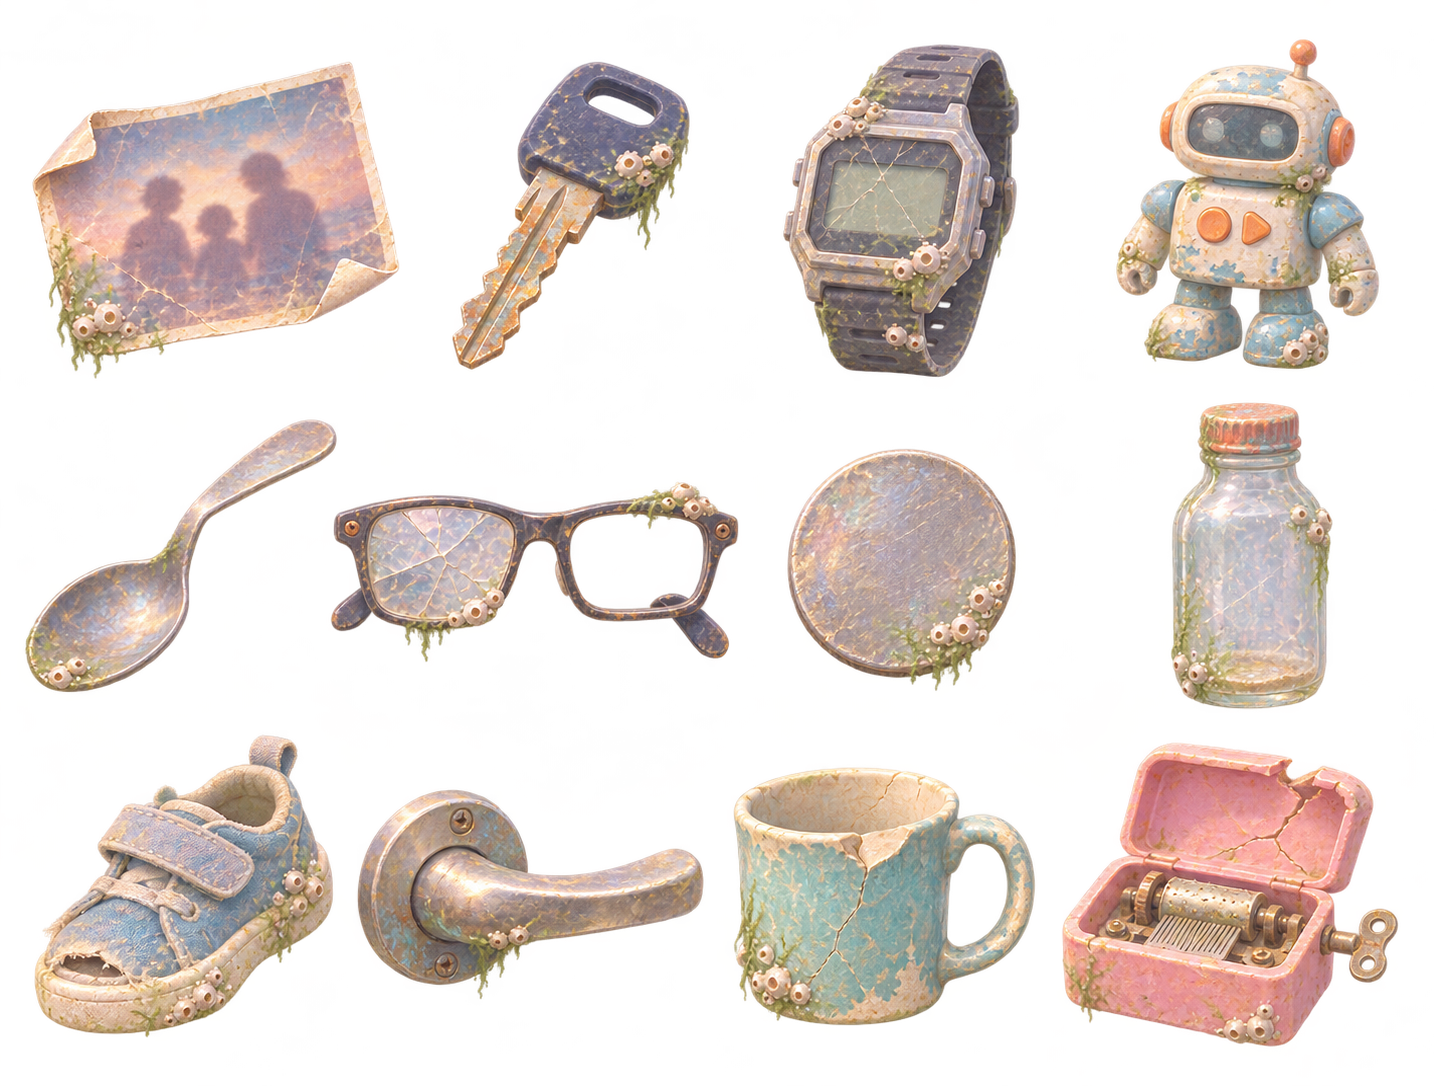
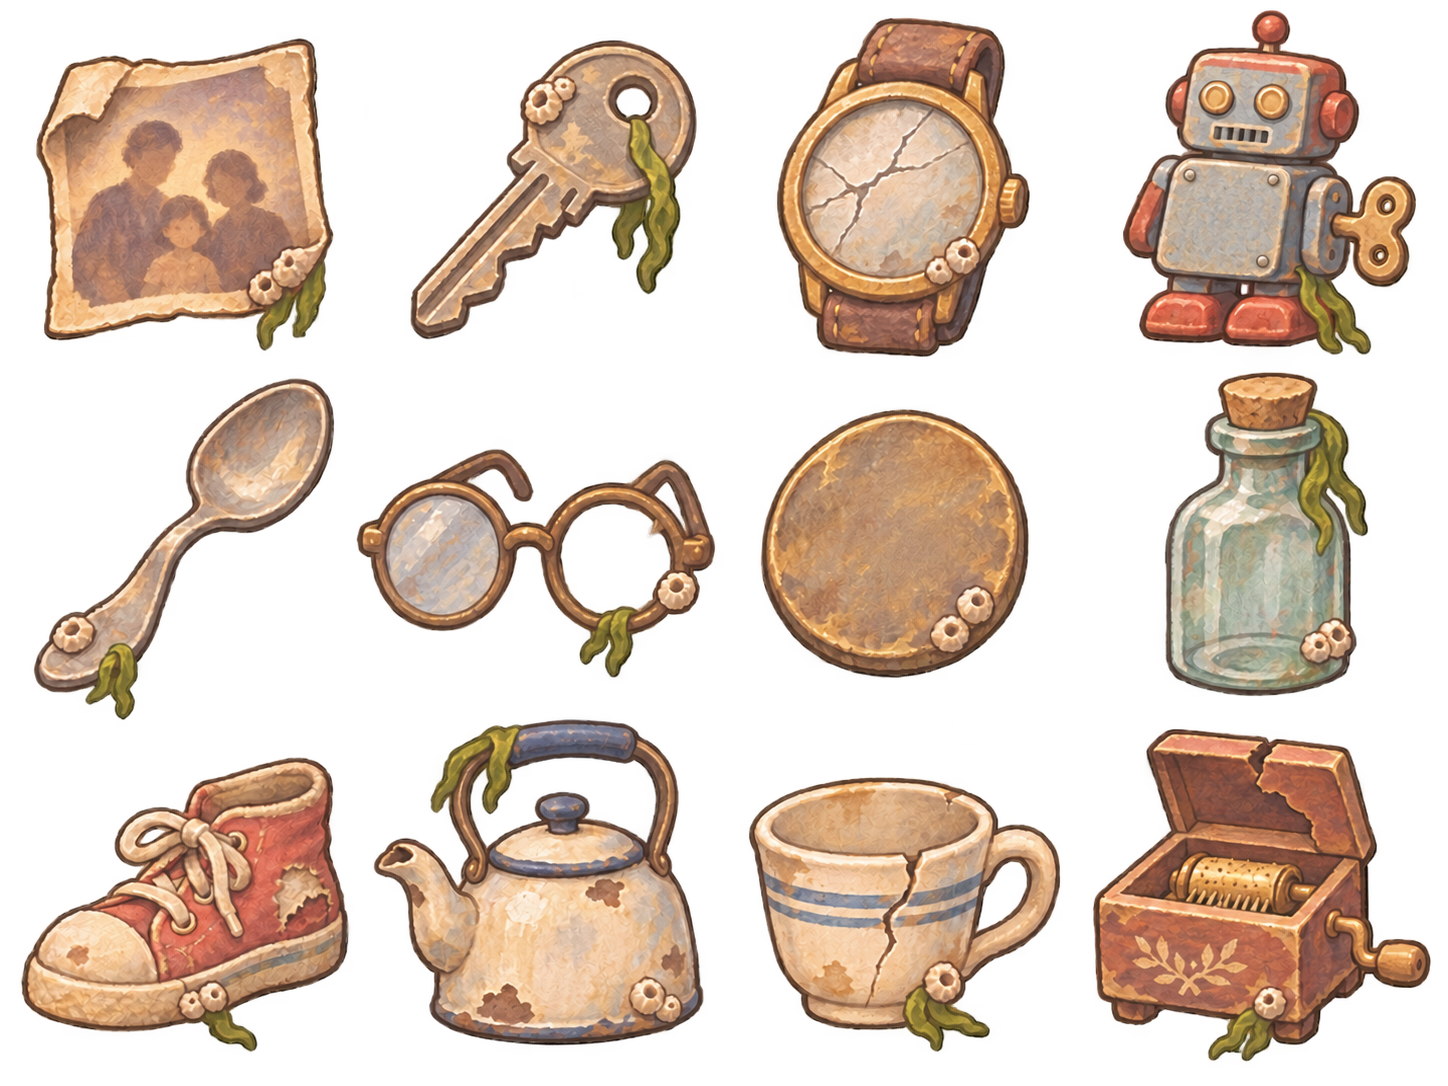
오래된 물건(348) 다시 그린 그림 검수 통과
Claude-Session: https://claude.ai/code/session_0142yqQtSepe3ngremP8BMYq

diff --git a/ASSET_QUEUE.md b/ASSET_QUEUE.md
@@ -367,7 +367,7 @@
 | 345 | `ui_map_pins` | UI: 해역 표식 8개, 잠김 표식, 배 표식, 환상종 증표 | DONE | 통과 |
 | 346 | `c_sky_8b` | 숨은 흔적 시험: 8번 해역 하늘 그림에서 먼 산 한 곳만 고치기 (나머지는 그대로) | DONE | 통과. 그림체 유지됨, 탑 윤곽이 은근하다. 기존 c_sky_8 대신 쓴다 |
 | 347 | `c_deep` | 숨은 흔적: 물속 깊은 곳의 가라앉은 윤곽 8개 (어두운 실루엣) | DONE | 통과. 암초처럼 흐릿하다 |
-| 348 | `ui_relics` | 환상종 증표로 열리는 오래된 물건 12개 (조금 옛날식 생활 물건, 동화풍 붓 그림) | REDO | 첫 그림은 입체 렌더 느낌이 강해 그림체가 달랐다. 다른 UI 아이콘(h_gear_a 등)과 같은 붓 그림으로 |
+| 348 | `ui_relics` | 환상종 증표로 열리는 오래된 물건 12개 (조금 옛날식 생활 물건, 동화풍 붓 그림) | DONE | 통과. 다시 그린 것은 다른 아이콘과 같은 붓 그림이다 |
 | 349 | `c_boat_t2` | 장비 외형: 2단계 배 (작은 어선) · 낚시꾼 자세 3장 | TODO | 기존 c_boat.png 와 같은 낚시꾼·같은 자세, **배 크기도 그대로** (모양·재질만 바뀐다) |
 | 350 | `c_boat_t3` | 장비 외형: 3단계 배 (돛단배) · 낚시꾼 자세 3장 | TODO | 기존 c_boat.png 와 같은 낚시꾼·같은 자세, **배 크기도 그대로** (모양·재질만 바뀐다) |
 | 351 | `c_boat_t4` | 장비 외형: 4단계 배 (먼바다 어선) · 낚시꾼 자세 3장 | TODO | 기존 c_boat.png 와 같은 낚시꾼·같은 자세, **배 크기도 그대로** (모양·재질만 바뀐다) |
